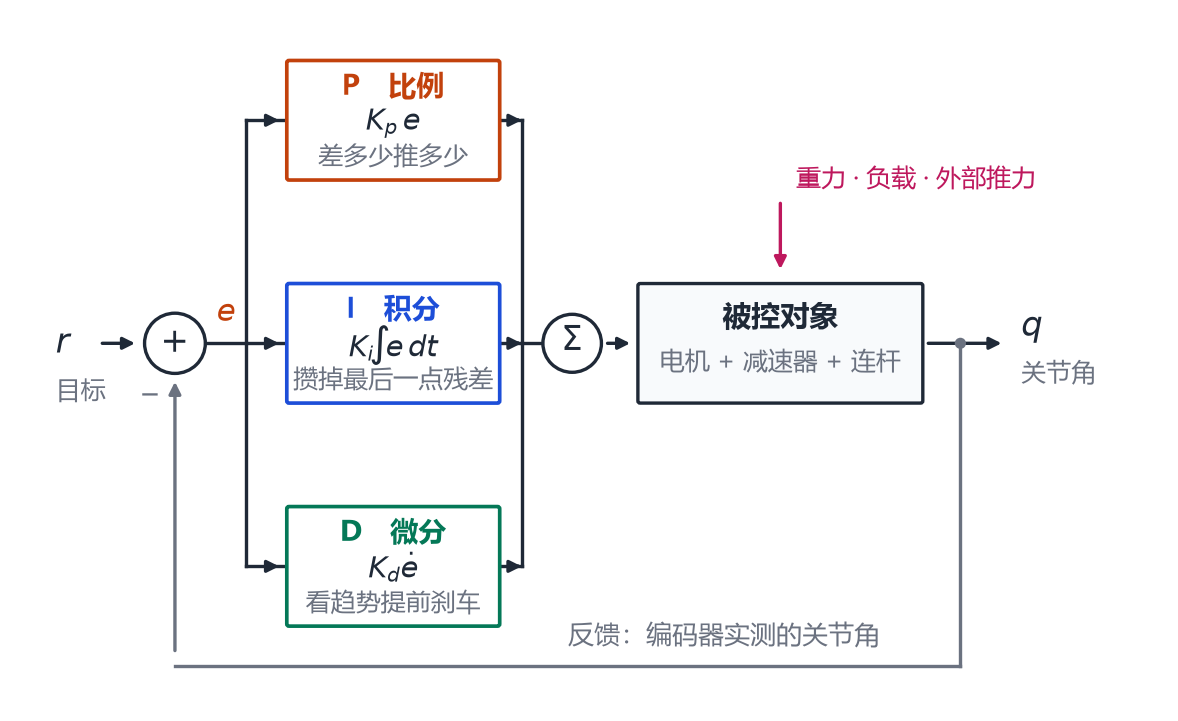
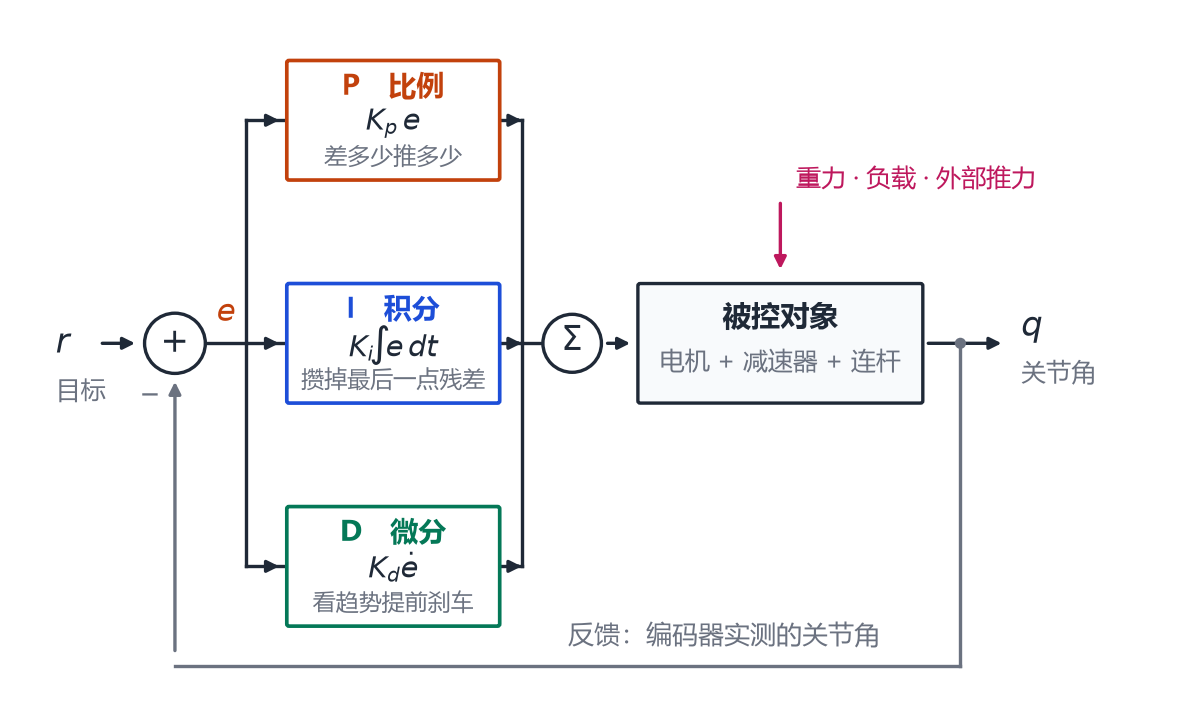
修正 PID 图公式与步态时序图，重编 PDF

Changed region(s): [[0.2445, 0.4882, 0.4278, 0.5492], [0.275, 0.1831, 0.3973, 0.2441], [0.2445, 0.7933, 0.4278, 0.8544]]

diff --git a/book/code/ch16/figures.py b/book/code/ch16/figures.py
@@ -35,7 +35,7 @@ def fig_pid():
     branches = [
         (4.62, "P　比例", "$K_p\\,e$", "差多少推多少", fs.ACCENT),
         (2.62, "I　积分", "$K_i\\!\\int\\! e\\,dt$", "攒掉最后一点残差", fs.BLUE),
-        (0.62, "D　微分", "$K_d\dot{e}$", "看趋势提前刹车", fs.GREEN),
+        (0.62, "D　微分", r"$K_d\dot{e}$", "看趋势提前刹车", fs.GREEN),
     ]
     centers = []
     for y, name, formula, role, col in branches:
@@ -45,7 +45,7 @@ def fig_pid():
         ax.text(bx + bw / 2, y + bh / 2 - 0.02, formula, ha="center", va="center",
                 fontsize=9.4, color=fs.INK, zorder=5)
         ax.text(bx + bw / 2, y + 0.20, role, ha="center", va="center",
-                fontsize=8.2, color=fs.MUTED, zorder=5)
+                fontsize=7.6, color=fs.MUTED, zorder=5)
         centers.append(y + bh / 2)
 
     # 分支入口与出口
